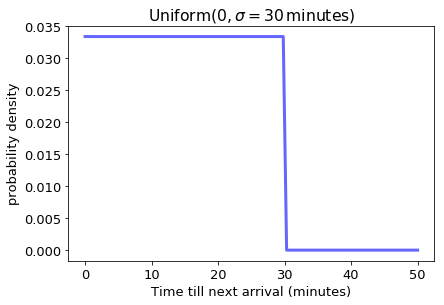
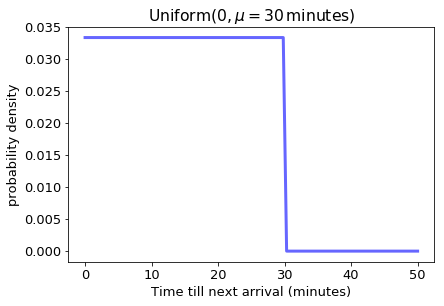
Mostly finished the parking article

diff --git a/_sass/minima.scss b/_sass/minima.scss
@@ -68,7 +68,7 @@ figure figcaption {
   display: block;
   margin-left: auto;
   margin-right: auto;
-  width: 50%;
+  //width: 80%;
 }
 
 .float-right {

diff --git a/_posts/2019-08-12-modelling-parking-ticket-times.md b/_posts/2019-08-12-modelling-parking-ticket-times.md
@@ -12,58 +12,55 @@ thumb: "/images/parking_thumb.jpg"
 ![aviators](/images/parking_cartoon1.jpg)
 *The illegally parked: shiver in your boots!*
 
-In my neighborhood in San Francisco, there is a two-hour time limit for unmetered, free parking. As a frequent car-parker, this yet another source of constant background stress, as I watch the little three-wheeled parking enforcement vehicles glide around the streets, hunting with cold, unyielding diligence the hapless, illegally parked.
+In my neighborhood in San Francisco, there is a two-hour time limit for unmetered, free parking---one of many stressful aspects of life in the city. When I think of everyone else using the parking spots, I feel grateful to the parking enforcement for keeping the streets working healthily. But when I think of my own parking needs, I feel stressed and anxious and competitive. I watch the little three-wheeled parking enforcement vehicles glide around the streets, hunting with cold, unyielding diligence the hapless, the illegally parked.
 
-And until a recent, earth-shattering conversation with my roommate, I have fastidiously moved my car before the exact, 2-hour limit, for fear of yet another $70 ticket. I have received three over the last year (one due to forgetfulness; two to accidentally parking on street cleaning day).
+And until a recent, earth-shattering realization, I have fastidiously moved my car before the exact, 2-hour limit, for fear of yet another $70 ticket. I have received three over the last year (one due to forgetfulness; two to accidentally parking on street cleaning day).
 
-That is, until a month ago, when a friend, who is a math teacher and generally thoughtful, pointed out that the ticketing odds right at the two-hour mark are exactly zero. Then we wondered what the probability of getting a ticket several minutes after the limit passes. Of that question, the following computer simulation was born.
+That is, until a month ago, when a friend, who is a math teacher and generally thoughtful, pointed out that the ticketing odds right at the two-hour mark are exactly zero. And we wondered, further, what might be the probability of getting a ticket several minutes after the limit passes. Of that question, the following computer simulation was born.
 
 To predict the actual chance of getting a ticket if you park over the limit by, say, 1 minute, or a 10 minutes, I've built a probabilistic model of ticket vehicle visits, and, through numerical simulation, made predictions about ticketing likelihood as a function of time. Results are are summarized at the end of this article.
 
 
-## Thinking about a model for this process
 
 ### The order of events leading to a ticket
 
-
-
-I've labeled the fundamental ordering of events leading to a parking ticket:
+To receive a parking ticket, each of the following events *must* happen, and in this order:
 
 * The car is parked at time $$t=0$$.
-* Interval A: duration until first arrival of enforcement vehicle.
+* Interval *A*: duration until first arrival of enforcement vehicle.
 * The car's 2-hour timer starts.
-* Interval B: Repeated, random arrivals, and if two hours hasn't passed since the first arrival, the process continues.
+* Interval *B*: Repeated, random arrivals, and if two hours hasn't passed since the first arrival, the process continues.
 * At the first arrival after two hours, the ticket is given.
 
 ![events](/images/parking_timeline.png)
 
-Evidently there are two time windows granting free, extra time before cars get ticketed, since the PEV won't show up till some time after you park, and won't give you a ticket till some time after you pass the legal time limit.
+Evidently there are two windows granting you extra time before your car gets ticketed: the PEV won't show up till *some time* after you park, and won't give you a ticket till *some time* after the actual 2-hour window as elapsed. In this light, our challenge is to describe the expected distribution of the sum of these two, extra time windows.
 
-Modeling the overall times---that is, the distribution of time-until-parking-ticket---however, is a non-trivial problem because the parking enforcement vehicles (*PEV*)s do not arrive at precise, regular intervals; nor do they arrive with perfect randomness. The world is full of noise; the PEV's laps are littered with red lights; various numbers of illegally parked cars; delivery trucks blocking the way; errant dogs, children, squirrels. The problem becomes, how do we quantify the noise within this periodicity?
+But modeling the overall times---that is, the distribution of time-until-parking-ticket---is, however, a non-trivial problem. The parking enforcement vehicles (*PEV*)s do not arrive at precise, regular intervals; nor do they arrive with perfect randomness. The world is full of noise; the PEV's laps are littered with red lights; various discoveries of illegally parked cars; delivery trucks blocking the way; errant dogs, children, squirrels. The problem becomes, how do we quantify the noise within this periodicity?
 
 
-It's also interesting to think about how, even in cases where the PEV is driving without a fixed route (the driver is distracted by a mind-bending audiobook, say), or if there are two or more PEVs on the same beat, there will still be *some* periodicity, due to the physical reason of there being a minimum possible time between two visits (no parking-checker-person, no matter how incredible, could check twice time in the same second).
+It's also interesting to think about how, even in cases where the PEV is driving without a fixed route (the driver is distracted by a mind-bending audiobook, say), or if there are two or more PEVs on the same beat, there will still be *some* periodicity, due to the physical reason of there being a minimum possible time between two visits (no parking-checker-person, no matter how incredible, could check twice time in the same second). Our model must cover all of these cases.
 
 Let's illustrate what these two extremes of PEV-visit noisiness look like:
 
 {% capture notice-2 %}
-**Perfectly periodic** visits over a 120-minute window (mean period $$\mu = 12$$)
+**Perfectly periodic** visits over a 120-minute window (mean period $$\mu = 12$$):
 
-![CDF for long times](/images/parking_periodic.png 'title')
+![CDF for long times](/images/parking_periodic.png 'title'){: .align-center}
 {% endcapture %}
 
 <div class="notice">{{ notice-2 | markdownify }}</div>
 
 
 {% capture notice-3 %}
-**Perfectly non-periodic** visits (drawn from a uniform distribution with again $$\mu=12$$)
+**Perfectly non-periodic** visits (drawn from a uniform distribution with again $$\mu=12$$):
 
-![CDF for long times](/images/parking_non_periodic.png 'title')
+![CDF for long times](/images/parking_non_periodic.png 'title'){: .align-center}
 {% endcapture %}
 <div class="notice">{{ notice-3 | markdownify }}</div>
 
 
-This latter distribution is very common in the natural world: any non-correlated i.i.d.[^2] events, such as photons from constant-intensity source hitting a detector, or rain drops striking a tin roof, or births happening around the world.
+This latter distribution shows up everywhere in nature: any non-correlated i.i.d.[^2] events, such as photons from constant-intensity source hitting a detector, or rain drops striking a tin roof, or births happening around the world.
 
 This perfectly random case is called a Poisson process, about which we know these two distributions:
 1. The probability density function (pdf) for the time between arrivals is drawn from a negative exponential distribution,
@@ -73,14 +70,13 @@ $$f(t) = \lambda e^{-\lambda t}$$, where the mean arrival time is $$\mu = 1/\lam
 For this simulation I am using property (1), summing up the time between arrivals, though it would also work to have designed the simulation around (2); the latter would require a different set of physical models about the PEV lap.
 
 
-### Modeling the visit times of the parking enforcement vehicle.
-We are going to assume that the parking enforcement vehicle (PEV) arrives, on average, every $$\mu$$ minutes---this is the mean wait time. For the actual simulation, we assume $$\mu=30$$ minutes for the 2-hour parking limit.
 
-Empirically, we can measure $$\mu$$ unambiguously by sitting on the sidewalk and counting the number of visits $$N$$ the PEV comes by during time interval $$\Delta T$$ --- then $$\mu = \Delta T / N$$.
+### Modeling interval *A*: from parking the car till first PEV arrival.
+We are going to assume that the parking enforcement vehicle (PEV) arrives, on average, every $$\mu$$ minutes---this is the mean wait time. In my simulation, I assume $$\mu=30$$ minutes for the 2-hour parking limit.
 
+Empirically, we can measure $$\mu$$ unambiguously by sitting on the sidewalk beneath a tree and counting the number of visits $$N$$ the PEV comes by during time interval $$\Delta T$$. Then $$\mu = \Delta T / N$$.
 
-#### Interval A: from parking the car till first PEV arrival
-If the PEV is traveling with perfect periodicity of $$\sigma=\mu$$, then the time until its first arrival, $$\lambda_0$$, is randomly drawn from a uniform distribution $$\lambda_0 \sim \mathrm{uniform}[0, \sigma]$$, since the phase of the parking vehicle's loop is uncorrelated with your own arrival:
+If the PEV is traveling with perfect periodicity of $$T=\mu$$, then the time until its first arrival, $$\lambda_0$$, is randomly drawn from a uniform distribution $$\lambda_0 \sim \mathrm{uniform}[0, \mu]$$, since the phase of the parking vehicle's loop is uncorrelated with your own arrival:
 
 ~~~~ python
 from scipy.stats import expon
@@ -89,7 +85,7 @@ fig, ax = plt.subplots(1, 1)
 x = np.linspace(0, 50, 100)
 ax.set_ylabel('probability density')
 ax.set_xlabel('Time till next arrival (minutes)')
-ax.set_title('Uniform distribution, $\sigma$ = 30 minutes')
+ax.set_title('Uniform distribution, $\mu$ = 30 minutes')
 ax.plot(x, uniform.pdf(x),
        'b-', lw=3, alpha=0.6)
 plt.show()
@@ -119,22 +115,59 @@ ax.plot(x, expon.pdf(x, scale=scale),
 Interestingly, the exponential distribution says there's no maximum time between visits---if it's perfectly random, the PEV could take an indefinitely long time, though the likelihood of this shrinks towards zero.
 
 
-The combination of these two behaviors---perfectly periodic and perfectly non-periodic---we capture with a weighted sum between the two, where $$\sigma/\mu$$ is the weight:
+The combination of these two behaviors---perfectly periodic and perfectly non-periodic---we capture with a weighted sum between the two, where $$(\sigma/\mu)$$ is the weight:
 
  $$\mathrm{Interval \,\,A} \sim (\sigma/\mu) (\mathrm{uniform}[0, \mu]) + (1 - \sigma/\mu) (\mathrm{exponential}(1/\mu))$$
 
-It's important to note that in this model, $$0< \sigma \leq \mu$$, so this weight will vary over (0, 1].
+It's important to note that in this model, $$0< \sigma \leq \mu$$, so the weight $$(\sigma/\mu)$$ will vary over (0, 1]. The noisiness parameter, $$\sigma$$, is introduced in the next section.
 
-#### Interval B: repeated subsequent arrival intervals until ticket
-* Subsequent arrival intervals are then given by the Gamma distribution:
+### Modeling interval *B*: repeated subsequent arrival intervals until ticket
+Subsequent arrival lap-times are described well by the [Gamma distribution](https://en.wikipedia.org/wiki/Gamma_distribution):
 
-$$\lambda_i = \mathrm{gamma}(a, \mu, \sigma),$$
+$$
+\begin{align}
+\lambda_i &= \mathrm{gamma}(a, \mu, \sigma) \\
+ &= \frac{1}{\Gamma(k) \theta^k} x^{k - 1} e^{-\frac{x}{\theta}}.
+ \end{align} $$
 
-* The gamma distribution applies to processes that have a large number $$(n \gtrapprox 50)$$ of subsequent, exponentially-derived events.
+ The gamma distribution applies to processes that are composed of the sum of a large number $$(n \gtrapprox 50)$$ of subsequent, exponentially-drawn events.
 
-* We will then simply add times drawn from this distribution to our total elapsed time until two-hours is exceeded.
 
-The monte carlo simulation thus takes the form of this simple nested loop (pseudocode):
+~~~~ python
+from scipy.stats import gamma
+import matplotlib.pyplot as plt
+fig, ax = plt.subplots(1, 1)
+
+mean = 30.0
+sigma = 5
+
+x = np.linspace(0, 50, 100)
+ax.plot(x, gamma.pdf(x, a=(mean/sigma)**2, loc=0, scale=sigma**2 / mean), 'k-', lw=2)
+
+plt.show()
+~~~~
+
+![gamma single](/images/parking_gamma_single.png){: .align-center}
+
+
+The gamma distribution is a sensible choice for this scenario because we can adjust both its mean (which we're keeping in this simulation at a constant $$\mu=30$$ minutes), *and* its standard deviation, $$\sigma$$. Here's what the gamma distribution looks like for various ratios of $$(\sigma/\mu)$$:
+
+
+(For an explanation of these `a` and `scale` formulae, see the Implementation Details section, below. For the full code used to make this plot, see the [jupyter notebook](https://github.com/adeich/little_sci_comp_projects/blob/master/Modeling%20getting%20a%20parking%20ticket.ipynb)).
+
+
+![gamma](/images/parking_gamma.png)
+
+So as $$(\sigma/\mu)$$ approaches 0, the gamma function approaches a spike at $$\mu$$---this is just perfectly periodic visit times! As $$(\sigma/\mu)$$ approaches 1, the gamma function approaches the exponential distribution---this perfectly random visit times, as described in the Interval *A* section, above.
+
+Now, with our two parameters $$\mu$$ and $$\sigma$$, we can quantify the amount of randomness vs periodicity, and explore how the ratio affects the time-likelihood dependence for getting a ticket.
+
+
+### Putting it all together into a Monte Carlo simulation
+
+For each parking ticket trial, a single time is drawn for interval *A*, as described above. Then, for interval *B*, we keep adding times drawn from the associated gamma distribution to the total elapsed time until two-hours is exceeded, at which point we record the total elapsed time.
+
+Or, to express the form of the Monte Carlo simulation in pseudocode:
 {% highlight guess_lang %}
 N := 10,000
 data := array(length=N)
@@ -145,7 +178,7 @@ for n going from 1 to N:
   data[n] := sum   
 {% endhighlight %}
 
-That is, for each iteration of the time-until-ticket simulation, we sum randomly drawn arrival times until 2 hours is exceeded; the total elapsed time is then recorded.
+For the full code of the simulation function, see `generate_data()` in the [jupyter notebook](https://github.com/adeich/little_sci_comp_projects/blob/master/Modeling%20getting%20a%20parking%20ticket.ipynb).
 
 I found that the histogram (which will begin to approximate the true [probability density function](https://en.wikipedia.org/wiki/Probability_density_function) (pdf) as $$N$$  gets big, according to the [Law of Large Numbers](https://en.wikipedia.org/wiki/Law_of_large_numbers)), starts to stabilize around $$N > \mathrm{10,000}$$.
 
@@ -158,24 +191,27 @@ Though, as discussed in the results section, below, this is not as useful a repr
 The Jupyter notebook containing all the code and outputs can be found in this [GitHub repository](https://github.com/adeich/little_sci_comp_projects/blob/master/Modeling%20getting%20a%20parking%20ticket.ipynb).
 
 ### Inability to vectorize the arrival time loops
-It would have been great to vectorize (a numpy concept) all these sums of random numbers, but because there is the piece-wise condition on the sum, ('add until 2-hours is exceeded'), we need to add subsequent random numbers within a `while` loop. There are faster ways to do this, but with time constraints I implemented my `while` loop in standard python, having to manually keep track of several array indices:
+It would have been great to vectorize[^3] all these sums of random numbers, but because there is the piece-wise condition on the sum, ('add until 2-hours is exceeded'), we need to add subsequent random numbers within a `while` loop. There are faster ways to do this, but with time constraints I implemented my `while` loop in standard python, having to manually keep track of several array indices:
 
 ### Connecting standard Gamma form to that of `scipy.stats.gamma()`
-In [scipy.stats.gamma](https://docs.scipy.org/doc/scipy/reference/generated/scipy.stats.gamma.html), the gamma function is called by `gamma.pdf(x, a, loc, scale)`, where `x` is an array of locations (what is the probability density at a given $$x$$?); `a` is a special 'shape' descriptor; `loc` is the origin, always `0` here; and `scale` parameter is, importantly, different than the standard deviation of the gamma distribution.  
+
+A difficulty in using the `scipy.stats.gamma()` function here is its arguments don't match up with our known values of $$\mu$$ and $$\sigma$$. I derived a conversion formula, as follows.
+
+In [scipy.stats.gamma](https://docs.scipy.org/doc/scipy/reference/generated/scipy.stats.gamma.html), the gamma function is called by `gamma.pdf(x, a, loc, scale)`, where `x` is an array of locations (what is the probability density at a given $$x$$?); `a` is a special 'shape' descriptor that does **not** equal $$\sigma$$; `loc` is the origin, always `0` here; and `scale` parameter is, importantly, different than the standard deviation of the gamma distribution.  
 
 Whereas, the standard form of the gamma pdf (see the [wikipedia article](https://en.wikipedia.org/wiki/Gamma_distribution)) is
 
 $$\begin{align}
-\mathrm{PDF_{wikipedia}}(x) &= \frac{1}{\Gamma(k)\theta^k} x^{k-1} e^{-x/\theta}\\
-\end{align}$$.
+\mathrm{PDF_{wikipedia}}(x) &= \frac{1}{\Gamma(k)\theta^k} x^{k-1} e^{-x/\theta},\\
+\end{align}$$
 
-My difficulty here was figuring out how to translate the wikipedia-standard-form arguments, (which are very useful because there, we know that mean=$$k\theta$$; variance=$$k\theta^2$$) into the `scipy` arguments.
+where mean $$\mu=k\theta$$ and variance $$\sigma^2=k\theta^2$$.
 
-Here's the `scipy` arguments, plugged into the wikipedia form:
+Let's translate the wikipedia-standard-form arguments into the `scipy` arguments. Here's the `scipy` arguments, plugged into the wikipedia form:
 
 $$
-\mathrm{PDF_{scipy}}(x) = \frac{x^{a-1} e^{-x}}{\Gamma(a)}
-$$.
+\mathrm{PDF_{scipy}}(x) = \frac{x^{a-1} e^{-x}}{\Gamma(a)}.
+$$
 
 The `scipy` docs give us a transformation: `gamma.pdf(x, a, loc, scale)` is identically equivalent to `gamma.pdf(y, a) / scale` with `y = (x - loc) / scale`. Plugging these in to the previous equation gives
 
@@ -218,30 +254,39 @@ a &= \big{(}\frac{\mu}{\sigma}\big{)}^2.
 \end{align}
 $$
 
-So, for a given mean $$\mu$$ and variance $$\sigma^2$$, our actual function call will be
+So, for a given mean $$\mu$$ and variance $$\sigma^2$$, our actual function call will look like
 
-~~~
-gamma(x, a=(mean/sigma)**2, loc=0, scale=sigma**2/mean)
-~~~
+~~~~ python
+from scipy.stats import gamma
+x = np.linspace(0,60,100)
+mean = 30
+sigma = 10
+
+gamma.pdf(x, a=(mean/sigma)**2, loc=0, scale=sigma**2/mean)
+# outputs a PDF array
+~~~~
 
 ## Simulation results
 
 
-For visualizing the probability of getting a ticket as a function of how long we're over-parked, here is a plot of the CDF (cumulative distribution function), which tells you the probability (expressed as a percentage) of getting a ticket after given number of minutes after the two-hour mark.
+For visualizing the probability of getting a ticket as a function of how long we're over-parked, here is a plot of the CDF (cumulative distribution function), which tells you the probability (expressed as a percentage) of getting a ticket after given number of minutes after the two-hour mark. Starting from a 1-d array listing simulated ticket times, I've used `numpy.percentile()` to generate the CDF.
 
-There are different lines for different values of $$\sigma$$, which represents the noisiness away from perfect periodicity by the PEV.
+I've plotted several lines for different values of $$\sigma$$, which represents the noisiness away from perfect periodicity by the PEV.
 
 
 ![CDF for long times](/images/parking_CDF_plot_1.png 'title')
 
- Above, $$\sigma/\mu$$ is varied from 0.15 to 1, and there is some varying effect on the CDF.
+ Above, $$(\sigma/\mu)$$ is varied from 0.15 to 1, and there is some varying effect on the CDF, though only for probabilities above ~25%.
+
+ Next, let's also look at the behaviors for very small values of $$(\sigma/\mu)$$:
 
 
-![CDF for short times](/images/parking_CDF_plot_2.png 'title'){: .align-center}
-It's also interesting to look at what happens within the regime of extremely precise PEV visits $$(0.01<\sigma/\mu\leq0.15)$$, where we see widely varying CDF dependency over the range [0, 30] minutes.
+![CDF for short times](/images/parking_CDF_plot_2.png 'title')
+
+Though I expect this precision of periodicity is unlikely in real life, it's very interesting to see the $$\sigma$$-dependent behavior that emerges for small times. I believe this has to do with a sort of aliasing effect. 
 
 ## Results discussion and big-picture takeaways
-Interestingly, up until about 25% ticket probability, there is very little variation, and hence $$\sigma$$-dependency, in time over-parked! This means that *regardless* of where $$\sigma/\mu$$ (the noisiness parameter) falls on $$(0, 1]$$, the resulting CDF ends up being roughly the same.
+Interestingly, up until about 25% ticket probability, there is very little variation, and hence $$\sigma$$-dependency, in time over-parked! This means that *regardless* of where $$(\sigma/\mu)$$ (the noisiness parameter) falls on $$(0, 1]$$, the resulting CDF ends up being roughly the same.
 
 
 So, for a 2-hour time limit, I conclude the following rules of thumb. These assume that the parking checkers come by every 30 minutes and have a moderate imprecision to how consistent they keep this periodicity. Depending on noisiness, these values will vary only by about 10%, which reflects a reassuring stability of these predictions.
@@ -262,14 +307,17 @@ So, for a 2-hour time limit, I conclude the following rules of thumb. These assu
 
 In reality, parking checkers may come far more or less frequently than 30 minutes; my results scale linearly with your observed measurements of $$\mu$$ and $$\sigma$$.
 
-### Future directions
+
 One day I would like to get some friends together with some chairs in the shade in front of my apartment and actually measure the passage of these majestic parking enforcement vehicles.
 
-This post is dedicated to the people who drive these three-wheelers---we owe the sanity of our public streets to them.
-
-
+This post is dedicated to the people who drive these three-wheelers---we owe the fairness and availability of public parking in crowded cities to their hard work.
 
 ![parking vehicle](/images/parking_metervehicle.png 'title'){: .align-center}
 
-[^1]: Parking cars is great.
+
+### References and further reading
+* I recommend reading the [bus arrival time simulation blog post](https://jakevdp.github.io/blog/2018/09/13/waiting-time-paradox/) by Jake VanderPlas in 2018.
+
+
 [^2]: Independent and identically-distributed random variable [wikipedia article](https://en.wikipedia.org/wiki/Independent_and_identically_distributed_random_variables).
+[^3]: Here's a good [vectorization tutorial](https://jakevdp.github.io/PythonDataScienceHandbook/03.10-working-with-strings.html) by Jake VanderPlas.
